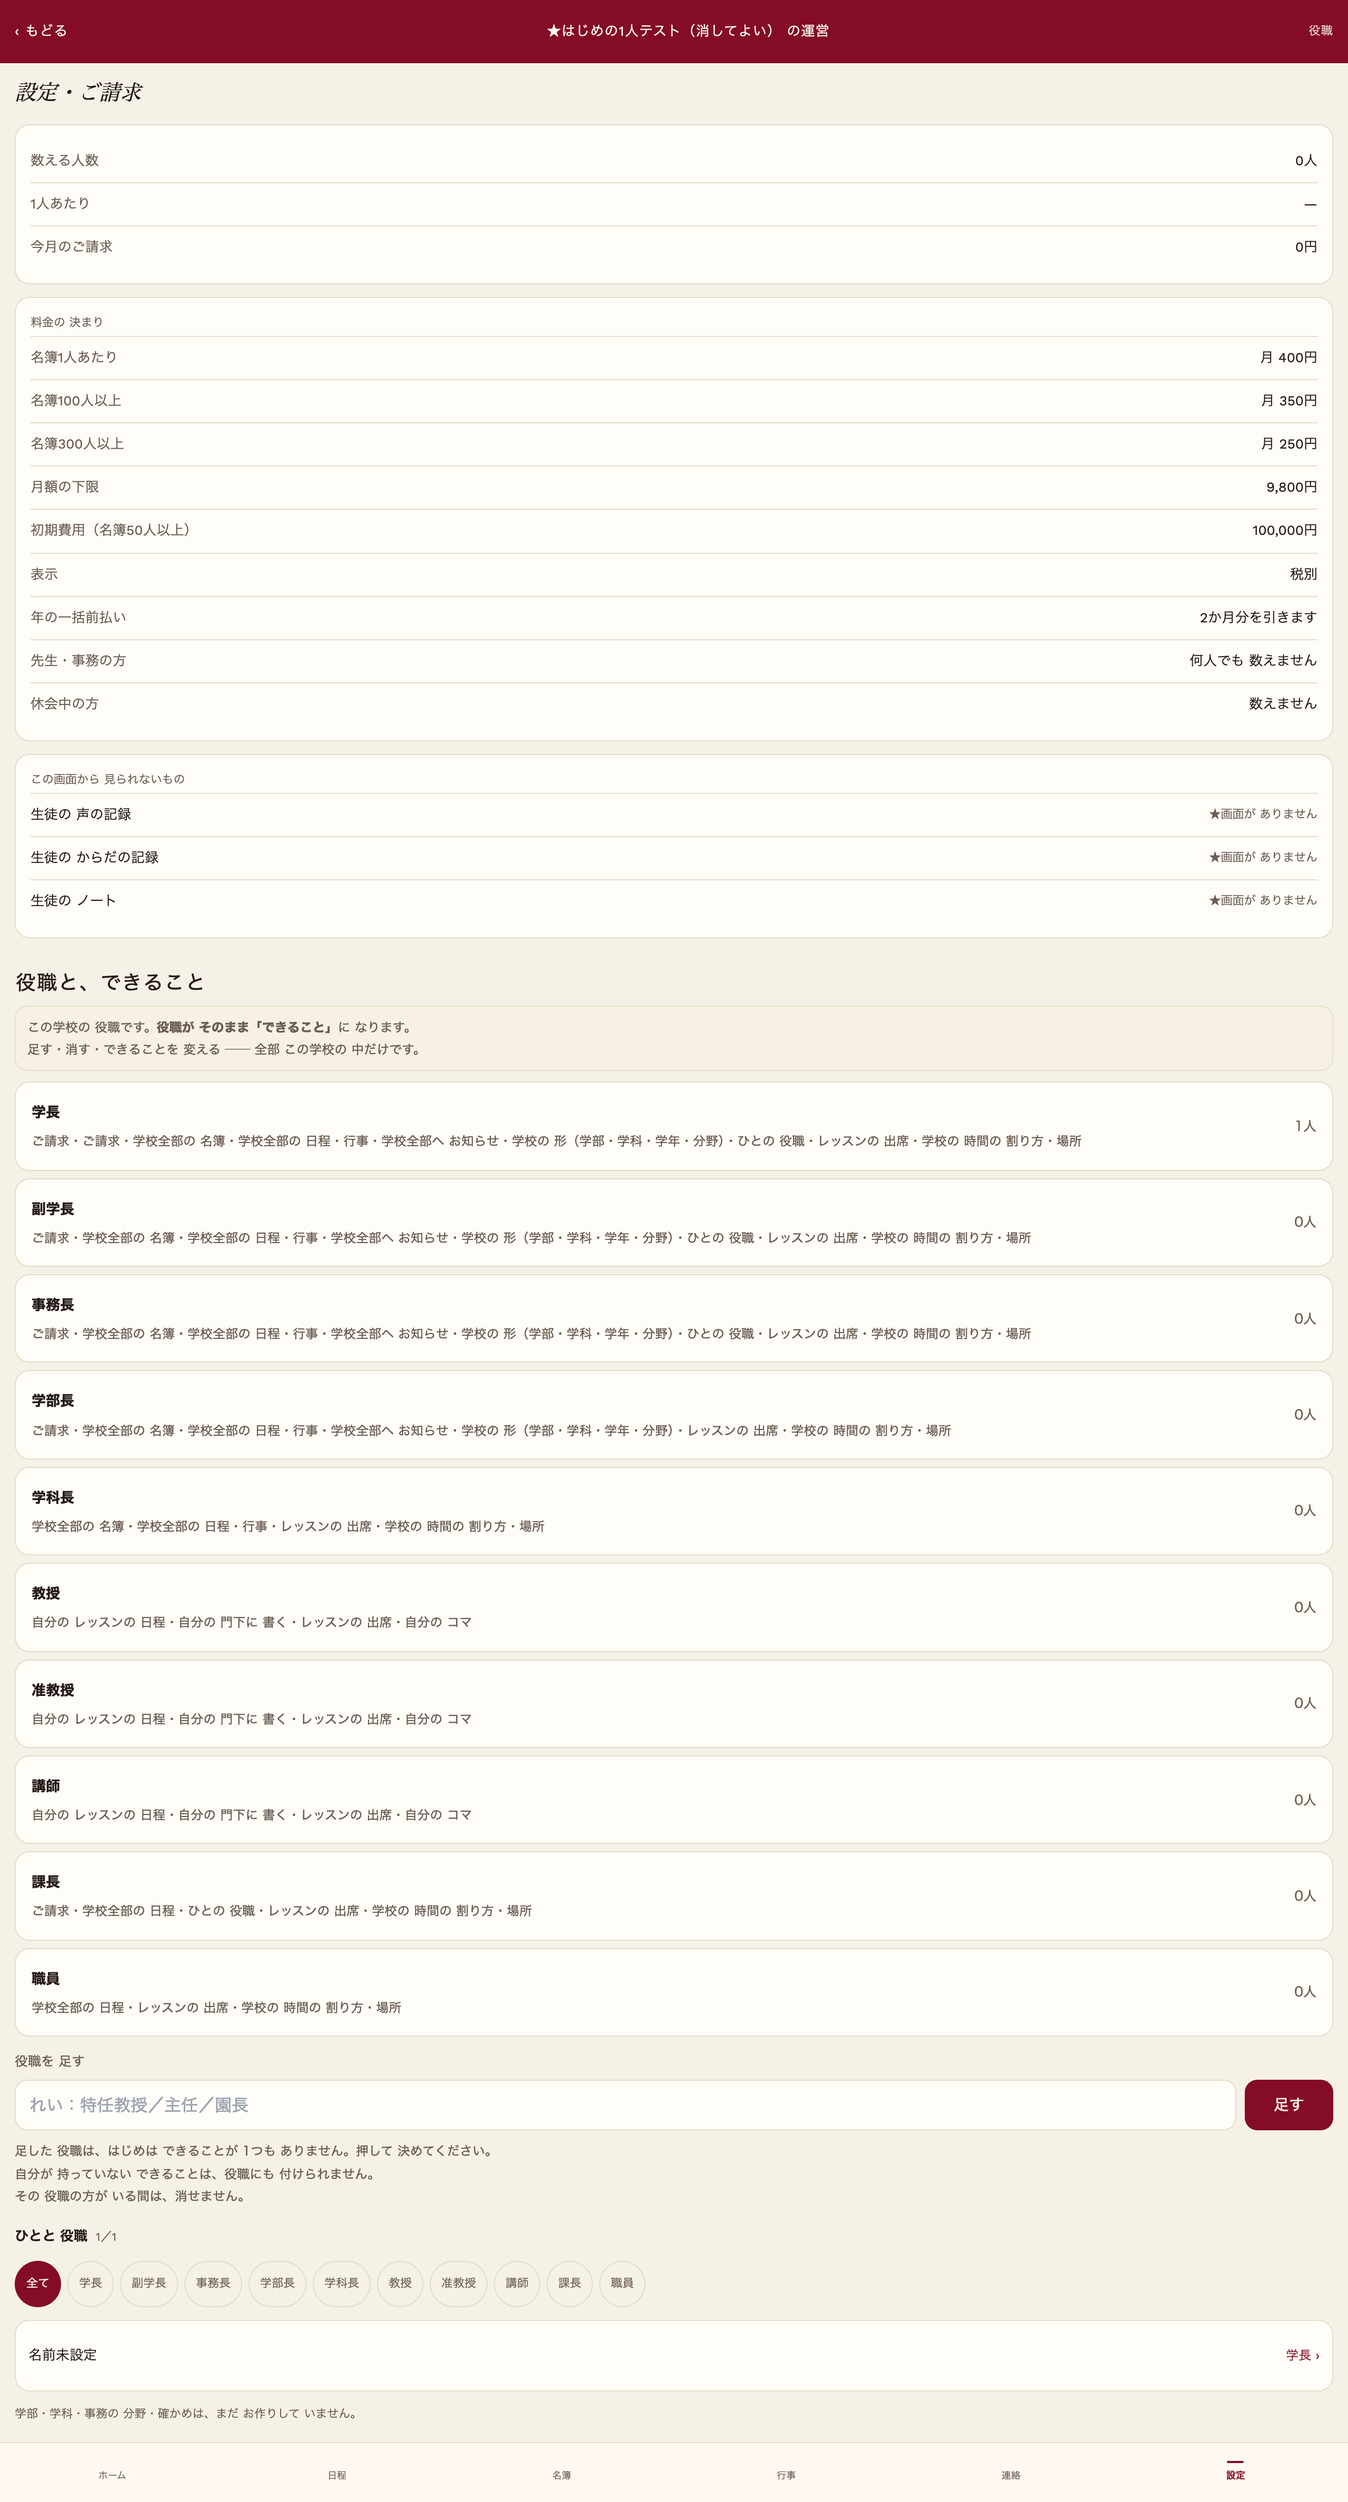
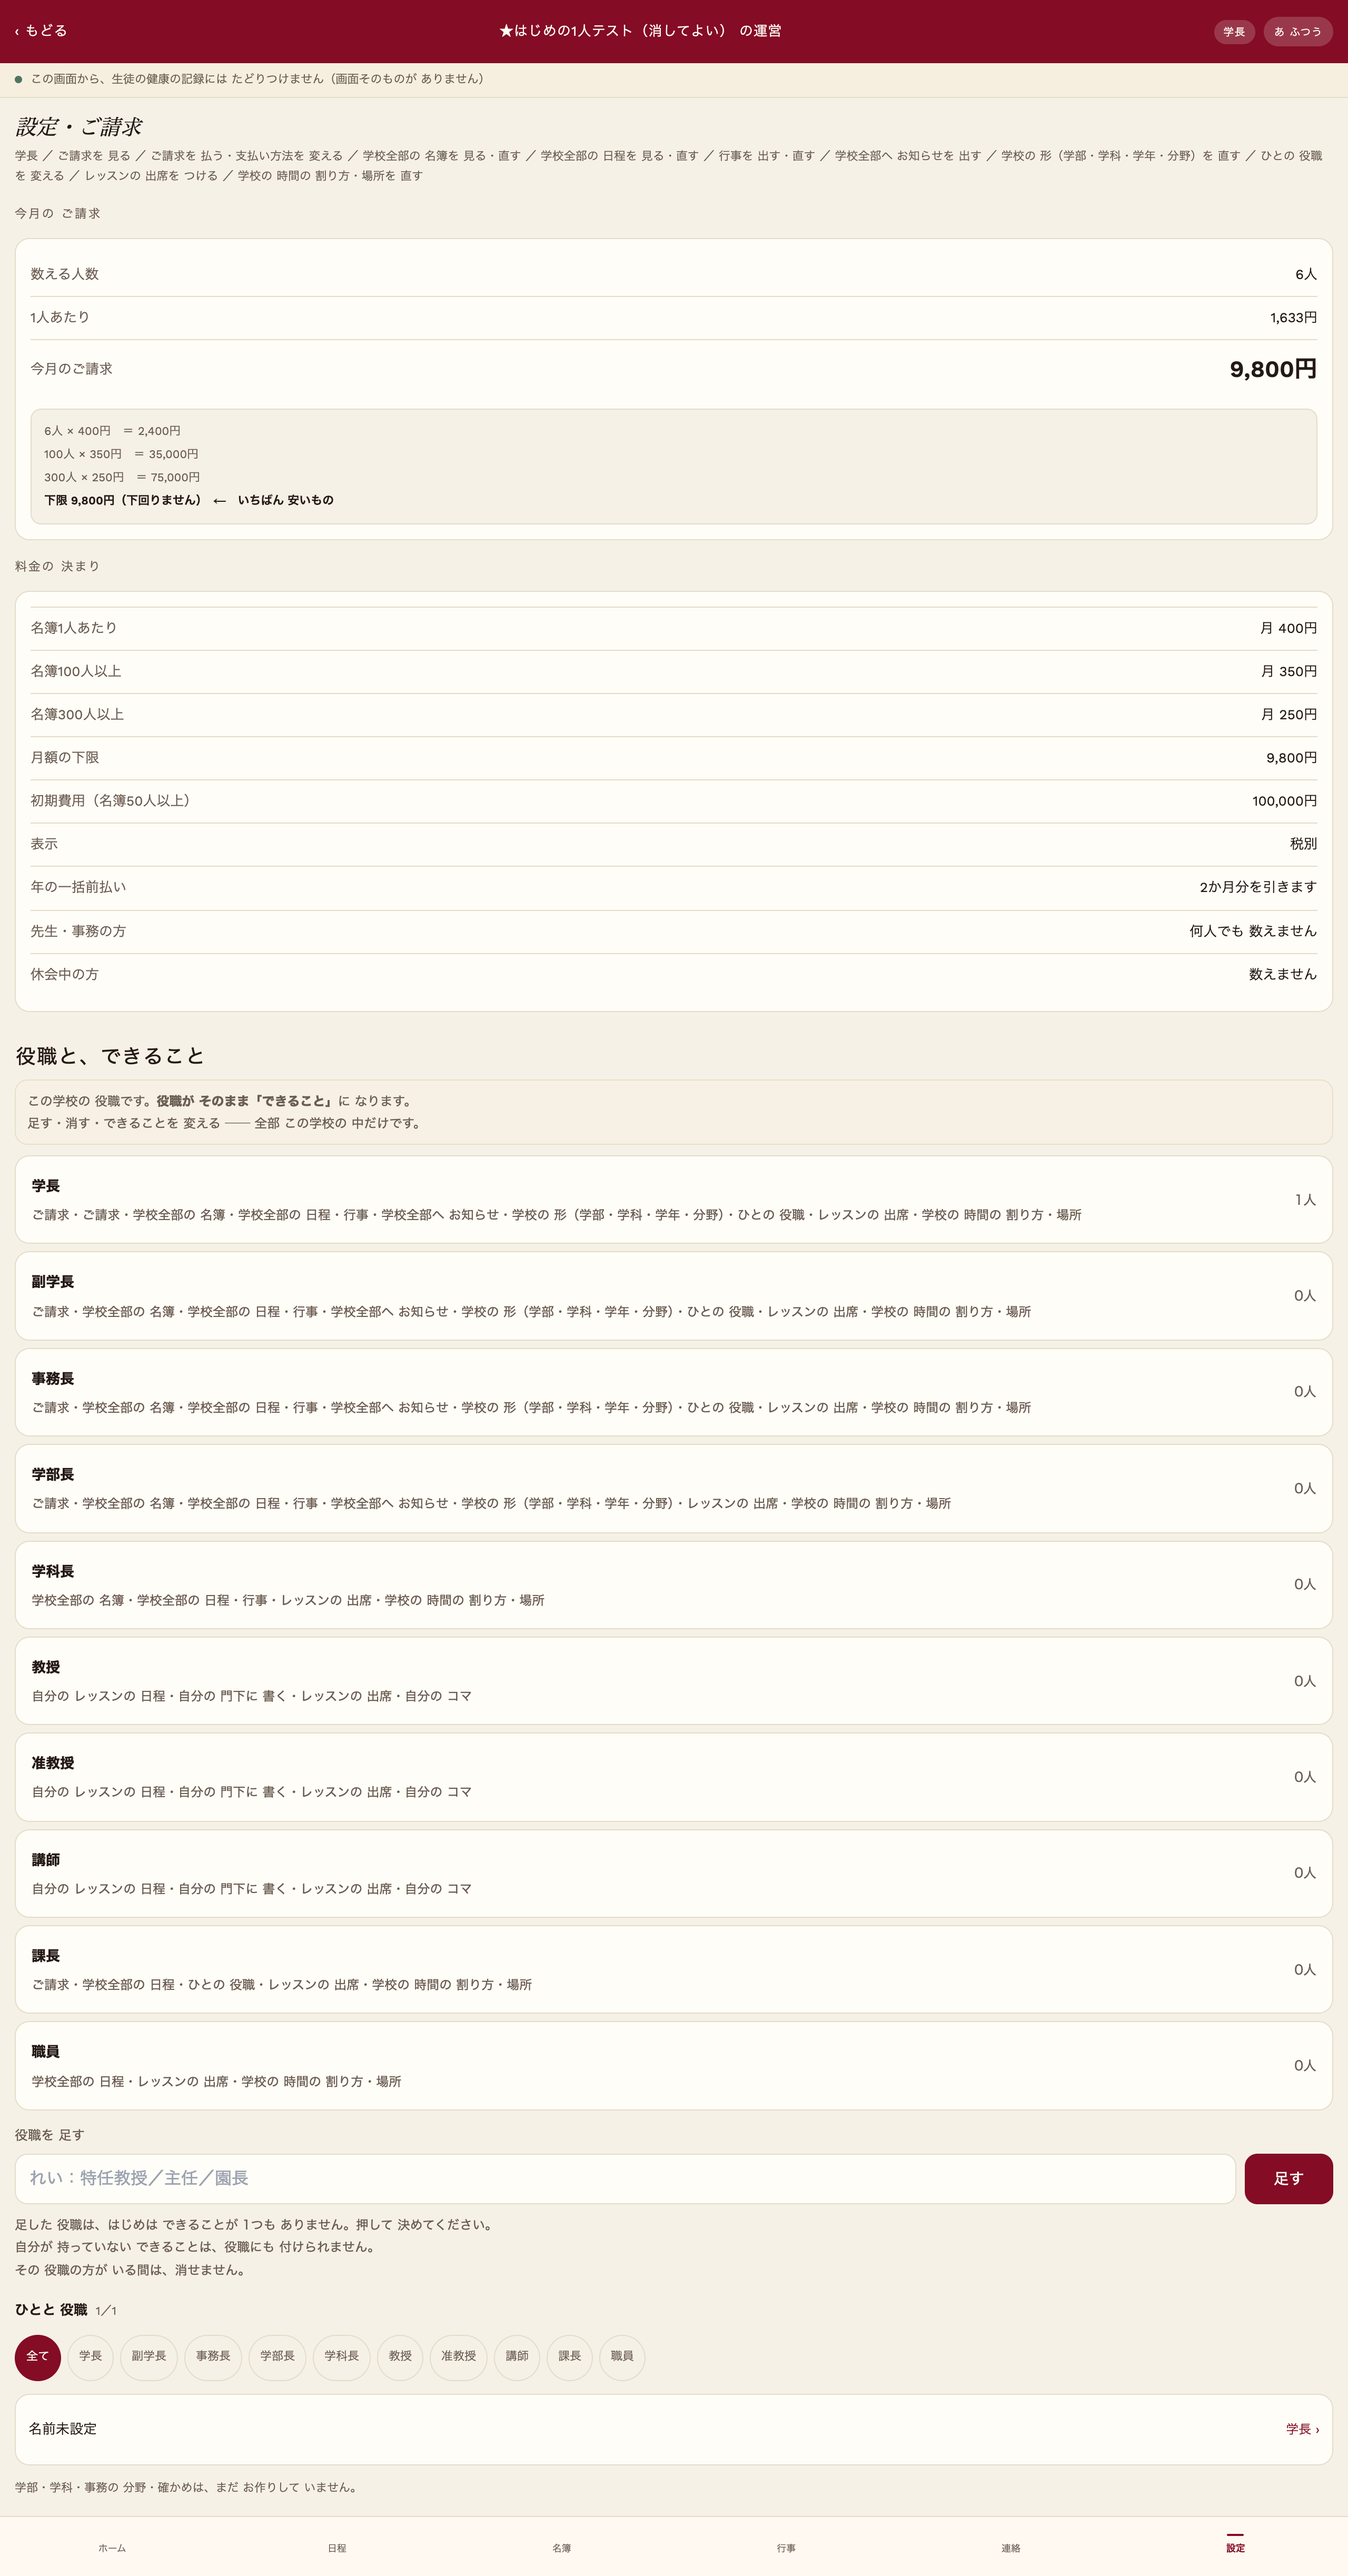
見本の撮り方を直しました ── 下半分が写っていませんでした
★これまでの P_settei の突き合わせは、★見本の上半分だけでした。

見本の作り（tools/_dom_probe.js で測りました）:
 BODY → .zoomwrap → #dev（端末の枠・高さ878の決め打ち・★倍率0.886）
   → .main（はみ出しを隠す）→ #bodyEl.body（★ここが巻いている。見える796／中身1396）

3段階で誤りました:
 一 4つを名指しで伸ばした → 右がわの別の巻きものが残った
 二 巻いているものを全部伸ばした → #dev の高さが決め打ちで、そこで切れた
 三 倍率を .zoomwrap から外した → 倍率は★#dev 自身にかかっていた（0.886倍のまま）
 → ①#dev の transform を外す ②足りないぶんだけ #dev を高くする

★較正を足しました。伸ばしたあとまだ巻いていたら止まります。
 「下が写りません」と言って止まります。白い絵も、半分の絵も残しません。

★2026-09-11 の覚えに同じ罠が書いてあります（sheet の max-height）。
 覚えていたのに、別の形で同じことをしました。

★見本の下半分に、これまで見ていなかったものが4つあります:
 1 見られないもの（★4行。4行目「生徒の 時間割の 中身」は持っていません）
 2 お支払い（5行）
 3 支払い方法を変える／宛先を変える／領収書を出す の3つの札
 4 くわしい 決まりを 見る の札

Claude-Session: https://claude.ai/code/session_01P6Lfc5LxjSbHgGaQUCbdAr

diff --git a/tools/ops_mihon_shot.js b/tools/ops_mihon_shot.js
@@ -47,10 +47,75 @@ const dev = process.argv[5] || "pc";
       process.exitCode = 1; return;
     }
 
+    // ★★★内がわの 巻きものを 伸ばして から 撮ります（★2026-09-18）。
+    //
+    //   ★★見本は、★決まった 高さの 器の 中で **中身が 巻いて** います。
+    //     ★★そのまま 撮ると、★見えて いる ぶん だけ 写ります。
+    //   ★★★2026-09-18、★それで 見落としました ──
+    //     ★★設定・ご請求 の 下半分（★見られないもの の 箱・お支払いの 箱・
+    //       ★支払い方法／宛先／領収書 の 3つの 札・注）が
+    //       ★★1枚目の 突き合わせに **入って いません** でした。
+    //     ★★「見本に 無い」と 申し上げかけた ものが、★見本に ありました。
+    //   ★★同じ 罠が 2026-09-11 の 覚えに あります（★sheet の max-height）。
+    //     ★★覚えて いたのに、★別の 形で 同じ ことを しました。
+    const 伸ばした = await page.evaluate(() => {
+      // ★★★見本の 作りが 分かりました（★tools/_dom_probe.js で 測りました）──
+      //     BODY
+      //       .zoomwrap   … ★倍率（transform: scale）が かかって います
+      //         #dev      … ★端末の 枠。★高さ 878 の 決め打ち
+      //           .main   … ★はみ出しを 隠す
+      //             #bodyEl.body … ★★ここが 巻いて います
+      //                           ★見えるのは 796／中身は 1396
+      //
+      //   ★★★「巻いて いる ものを ぜんぶ 伸ばす」だけ では 足りません でした。
+      //     ★★#dev の 高さが 決め打ち で、★そこで 切られます。
+      //     ★★倍率も かかって いて、★撮った 絵が 小さく なります。
+      //   ★★★だから ── ★①倍率を 外す ②足りない ぶん だけ 枠を 高く する。
+      const 中身 = document.querySelector("#bodyEl") || document.querySelector(".body");
+      const dev = document.querySelector("#dev");
+      const 足りない = 中身 ? Math.max(0, 中身.scrollHeight - 中身.clientHeight) : 0;
+
+      // ★① 倍率を 外します。★外さないと、★撮った 絵が 縮みます。
+      //   ★★★倍率は `.zoomwrap` では なく **`#dev` 自身** に かかって いました
+      //     （★transform: matrix(0.886, …)）。★測って 分かりました。
+      //     ★★包みの ほうを 外しても、★絵は 0.886倍の まま でした。
+      const wrap = document.querySelector(".zoomwrap");
+      if (wrap) { wrap.style.height = "auto"; wrap.style.maxHeight = "none";
+        wrap.style.overflow = "visible"; }
+      if (dev) { dev.style.transform = "none"; dev.style.zoom = "1"; }
+
+      // ★② 巻いて いる ところを 伸ばします。
+      let 変えた = 0;
+      [中身, document.querySelector(".main"), dev].filter(Boolean).forEach((e) => {
+        e.style.overflow = "visible"; e.style.maxHeight = "none"; 変えた += 1;
+      });
+      if (中身) 中身.style.height = "auto";
+
+      // ★③ 枠を、★足りない ぶん だけ 高く します。
+      //   ★★`auto` に しません。★端末の 枠の 形（幅・余白）を 保ちます。
+      if (dev) dev.style.height = (dev.clientHeight + 足りない) + "px";
+
+      document.body.style.height = "auto";
+      document.documentElement.style.height = "auto";
+      return { 変えた, 足りない, 高さ: dev ? dev.clientHeight : 0 };
+    });
+    console.log("★器を 伸ばしました: " + 伸ばした.変えた + "つ ／ 足りない ぶん "
+      + 伸ばした.足りない + " ／ 高さ " + 伸ばした.高さ);
+    // ★★較正 ── ★伸ばした あと、★まだ 巻いて いたら 止まります。
+    const まだ巻いてる = await page.evaluate(() => {
+      const e = document.querySelector("#bodyEl") || document.querySelector(".body");
+      return e ? e.scrollHeight - e.clientHeight : 0;
+    });
+    if (まだ巻いてる > 4) {
+      console.error("★止まりました ── まだ " + まだ巻いてる + "px 巻いて います。★下が 写りません。");
+      process.exitCode = 1; return;
+    }
+    await page.waitForTimeout(400);
+
     const 名 = "mihon-" + tab + (st2 ? "-" + st2 : "") + "-" + post + "-" + dev + ".png";
     const dst = path.join(ROOT, "docs/design/compare/ops", 名);
     const el = await page.$("#dev");
-    await (el || page).screenshot({ path: dst });
+    await (el || page).screenshot({ path: dst, scale: "css" });
     console.log("★撮りました: docs/design/compare/ops/" + 名);
   } finally { await b.close(); }
 })();
